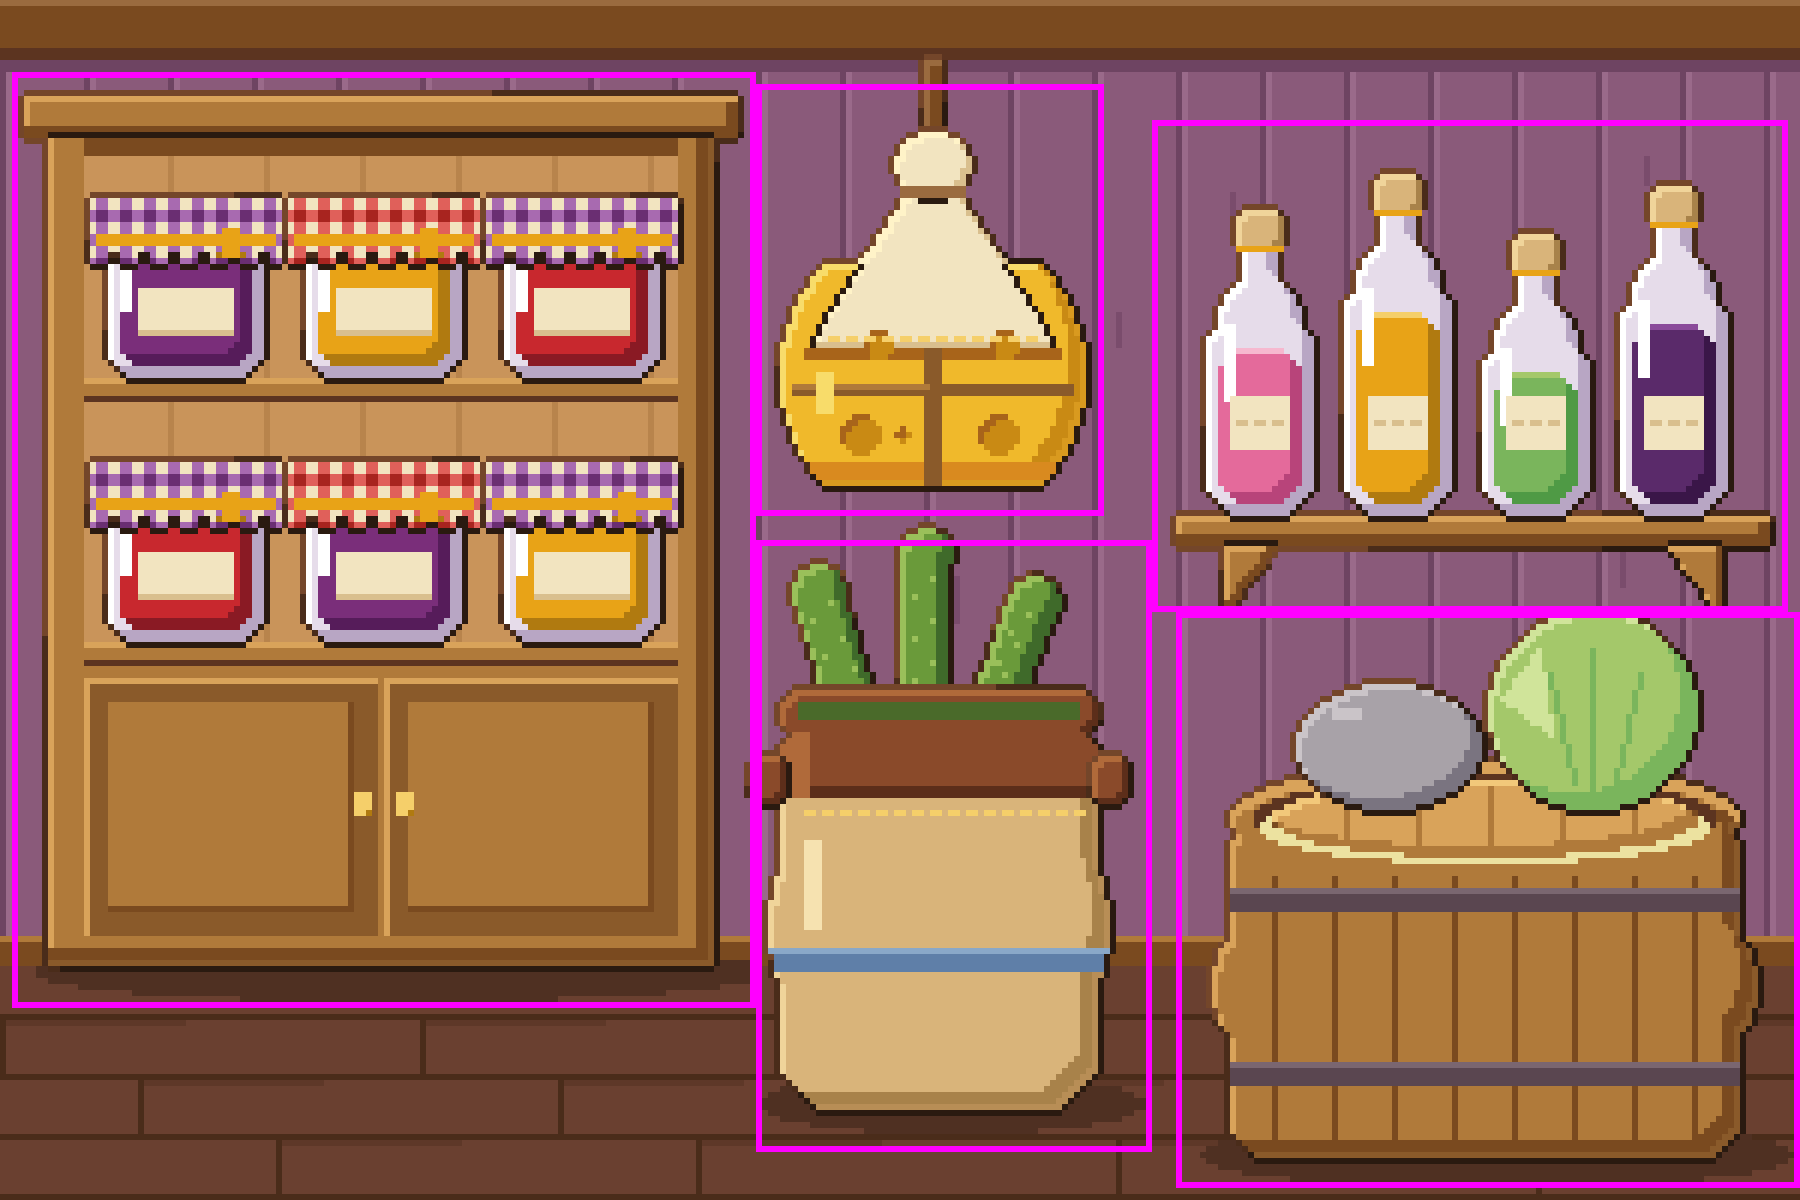
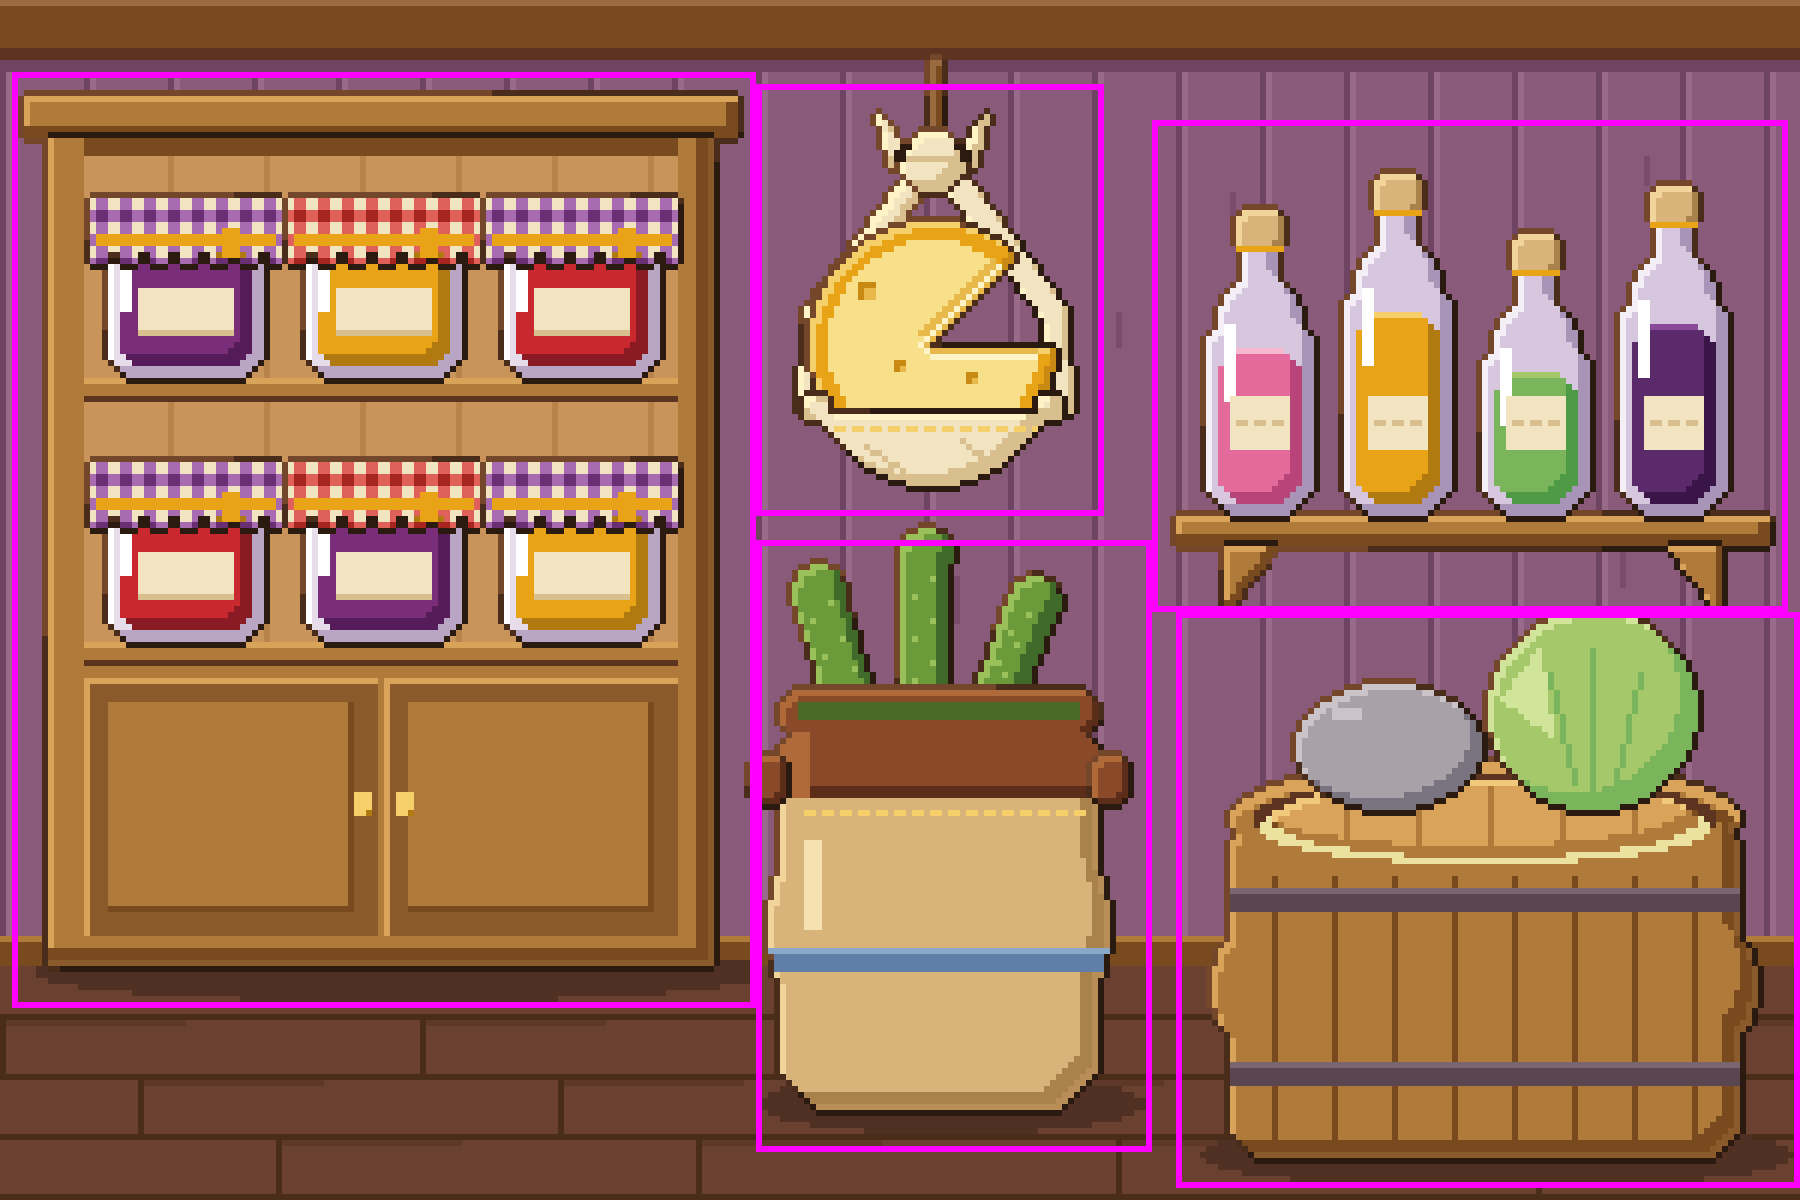
Craft map: pantry cheese fix, round 2 scenes in progress
Claude-Session: https://claude.ai/code/session_01QemYLC2wkq1kFYCRmQALDP

Changed region(s): [[0.4044, 0.0308, 0.6222, 0.4317]]

diff --git a/aseprite-source/scenes-pil/craft_med_pantry.py b/aseprite-source/scenes-pil/craft_med_pantry.py
@@ -18,6 +18,7 @@ BEAM = ramp('#7a4a1f', '#5c3420', '#9a6b3f')
 WOOD = ramp('#b07a3a', '#7a4a1f', '#d9a35a', '#8a5a2a', '#5c3420')
 BACK, BACK2 = '#c9945a', '#b8844c'
 GLASS = ramp('#e6dcea', '#b8a6c4', '#ffffff')
+BGLASS = ramp('#d6c6de', '#a894b6', '#f4eef6')   # bottle glass, a touch deeper than the jars so it reads against the plum wall
 PLUM = ramp('#7a2e7a', '#561c5a', '#a85aa8')
 JRED = ramp('#c8282e', '#8a1a24', '#e8604a')
 AMBER = ramp('#e8a317', '#b07a10', '#f5cf6a')
@@ -130,30 +131,38 @@ for row, base in enumerate((62, 106)):
         cv.fill(rect(jx + JW - 7, jy + 1, jx + JW - 5, jy + 5), '#e8a317')   # bow
         cv.dots([(jx + JW - 8, jy + 5), (jx + JW - 4, jy + 5)], '#b07a10')
 
-# ---------------------------------------------------------------- 2 cheese wheel hanging in a cord net, cloth tied over the top
-CHEESE = ramp('#f0b92b', '#c98a14', '#f8dc6a', '#d99a1f')
-RIND = ramp('#d98a1f', '#a8641a', '#f0b04a')
-hx0, hx1 = 132, 178
-CT, CB = 44, 80
-cord = rect(154, 10, 156, 30)
-wheel = (ell(hx0 - 2, CT - 8, hx1 + 2, CB + 8) & rect(0, CT, W, CB)) | rrect(hx0 + 8, CT, hx1 - 8, CB, 2)
-cloth = poly([(hx0 + 4, CT + 10), (155, 26), (hx1 - 4, CT + 10), (hx1 - 2, CT + 14), (hx0 + 2, CT + 14)])
-tuft = ell(149, 22, 161, 32)
-draw((cord, BEAM, dict(d=0)))
-draw((wheel, CHEESE, dict(d=3)), (cloth, CREAM, dict(d=2, contour=True)), (tuft, CREAM, dict(d=1, contour=True)))
-cv.fill(rect(hx0 + 2, CT + 14, hx1 - 2, CT + 15) & wheel, RIND['s'])   # rind edge under the cloth
-cv.fill(rect(hx0 + 2, CB - 3, hx1 - 2, CB - 1) & wheel, RIND['b'])   # bottom rind
-for (x, y, s_) in ((143, 72, 3), (166, 72, 3), (146, 57, 2), (167, 57, 2), (150, 72, 1)):   # cheese holes (eyes)
-    m = ell(x - s_, y - s_, x + s_, y + s_)
-    cv.fill(m, CHEESE['s'])
-    cv.fill(m & ~shift(m, 1, 1), RIND['s'])
-cord2 = (rect(154, CT + 14, 156, CB) | rect(hx0, 64, hx1, 65)) & wheel   # parcel cord tied round the wheel
-cv.fill(cord2, '#8a5a2a')
-cv.fill(cord2 & rect(0, 0, 154, H) & rect(0, 64, W, 64), '#b07a3a')
-cv.fill(rect(150, 31, 160, 32), '#9a6b3f')   # string round the cloth neck
-for x in range(hx0 + 6, hx1 - 5, 3):   # stitched hem of the cloth
-    cv.fill(rect(x, CT + 12, x + 1, CT + 12) & cloth, GOLD)
-cv.fill(rect(hx0 + 4, CT + 18, hx0 + 6, CT + 24), CHEESE['r'])
+# ---------------------------------------------------------------- 2 cheese wheel with a wedge cut out, hanging in a cloth sling knotted on a rope
+CHEESE = ramp('#f8e08a', '#e8b84a', '#fff3c8')
+RIND = ramp('#e8a317', '#c98a14', '#f5cf6a')
+CX, CY, CR = 155, 57, 20   # wheel centre and radius
+draw((line([(155, 10), (155, 25)], 2), BEAM, dict(d=0)))   # rope from the beam
+for y in range(12, 25, 3):   # rope twist
+    cv.fill(rect(155, y, 155, y), BEAM['r'])
+straps = line([(153, 28), (135, 52), (134, 68)], 4) | line([(157, 28), (175, 52), (176, 68)], 4)   # sling straps behind the wheel
+draw((straps, CREAM, dict(d=1)))
+wheel = ell(CX - CR, CY - CR, CX + CR, CY + CR)
+wedge = poly([(CX, CY), (CX + 30, CY - 30), (CX + 32, CY - 2), (CX + 30, CY + 1)])   # upper-right slice taken out
+wheel &= ~wedge
+draw((wheel, CHEESE, dict(d=2)))
+rind = wheel & ~(ell(CX - CR + 3, CY - CR + 3, CX + CR - 3, CY + CR - 3))
+cv.fill(rind, RIND['b'])
+cv.fill(rind & ~shift(rind, 1, 1) & ~shift(wheel, 1, 1), RIND['r'])   # lit rind upper left
+cv.fill(rind & ~shift(wheel, -1, -1), RIND['s'])
+cut = wheel & ~shift(wedge, -1, 0) & dil4(dil4(wedge)) & ~rind   # fresh cut faces along the slice
+cv.fill(cut, CHEESE['r'])
+cv.fill(wheel & dil4(wedge) & rect(0, CY - 1, W, CY + 1) & ~rind, CHEESE['s'])   # thickness under the flat cut
+for (x, y, w_, h_) in ((143, 47, 3, 3), (161, 62, 2, 2), (149, 60, 2, 2)):   # hard-pixel holes
+    cv.fill(rect(x, y, x + w_ - 1, y + h_ - 1), CHEESE['s'])
+    cv.fill(rect(x, y, x + w_ - 1, y) | rect(x, y, x, y + h_ - 1), RIND['s'])
+sling = (ell(CX - CR - 2, CY - CR - 6, CX + CR + 2, CY + CR + 3) & rect(0, CY + 12, W, H)) | rect(CX - CR - 1, CY + 9, CX - CR + 2, CY + 12) | rect(CX + CR - 2, CY + 9, CX + CR + 1, CY + 12)
+knot = ell(150, 22, 160, 31)
+ears = poly([(151, 25), (146, 19), (148, 27)]) | poly([(159, 25), (164, 19), (162, 27)])
+draw((sling, CREAM, dict(d=2)), (ears, CREAM, dict(d=1, contour=True)), (knot, CREAM, dict(d=2, contour=True)))
+for x in range(CX - CR + 1, CX + CR, 3):   # stitched hem along the top of the sling
+    cv.fill(rect(x, CY + 14, x + 1, CY + 14) & sling, GOLD)
+for (a_, b_) in (((144, 74), (150, 78)), ((160, 73), (165, 77))):   # fold creases
+    cv.fill(line([a_, b_]) & sling, CREAM['s'])
+cv.fill(rect(151, 26, 159, 26) & knot, CREAM['s'])   # knot crease
 
 # ---------------------------------------------------------------- 3 wall shelf of cordial bottles (right)
 shelf = rect(196, 86, 294, 90)
@@ -166,7 +175,7 @@ for k, (liq, tall) in enumerate(((ROSE, 50), (AMBER, 56), (HERB, 46), (CURR, 54)
     body = rrect(bx, top + 16, bx + 17, 85, 4)
     neck = rect(bx + 6, top + 4, bx + 11, top + 17) | ell(bx + 2, top + 10, bx + 15, top + 24)
     cork = rrect(bx + 5, top - 1, bx + 12, top + 5, 1)
-    draw((neck | body, GLASS, dict(d=2)), (cork, TAN, dict(d=1, contour=True)))
+    draw((neck | body, BGLASS, dict(d=2)), (cork, TAN, dict(d=1, contour=True)))
     liqm = rrect(bx + 2, top + 22, bx + 15, 83, 3)
     cv.fill(liqm, liq['b'])
     cv.fill(liqm & ~shift(liqm, -2, -2), liq['s'])
